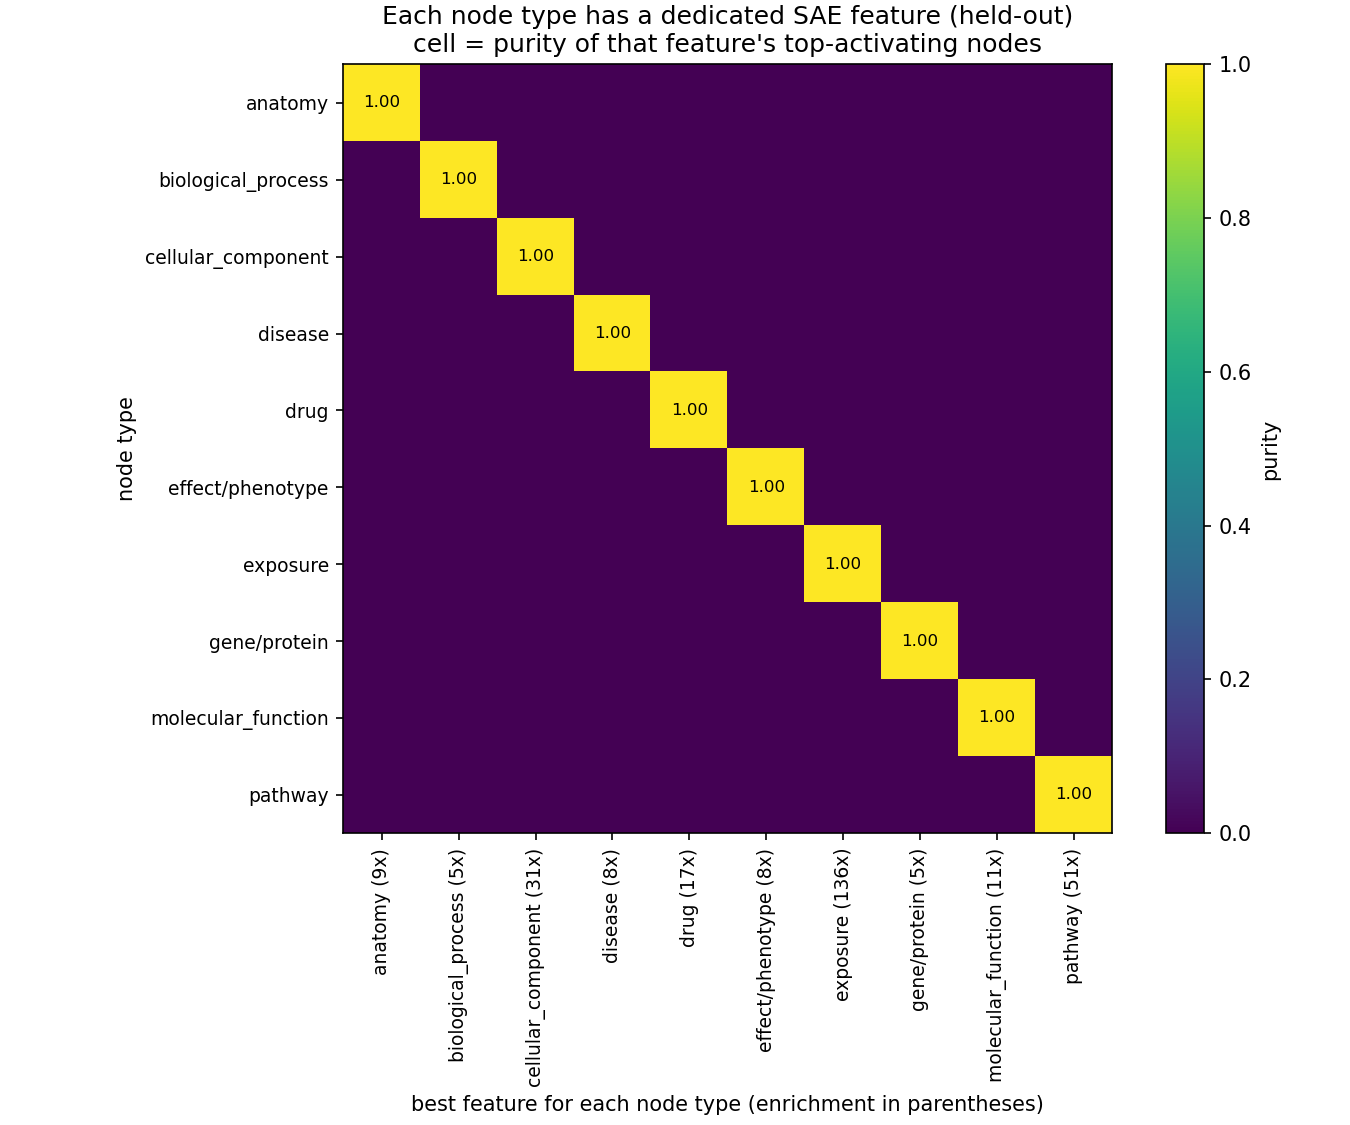
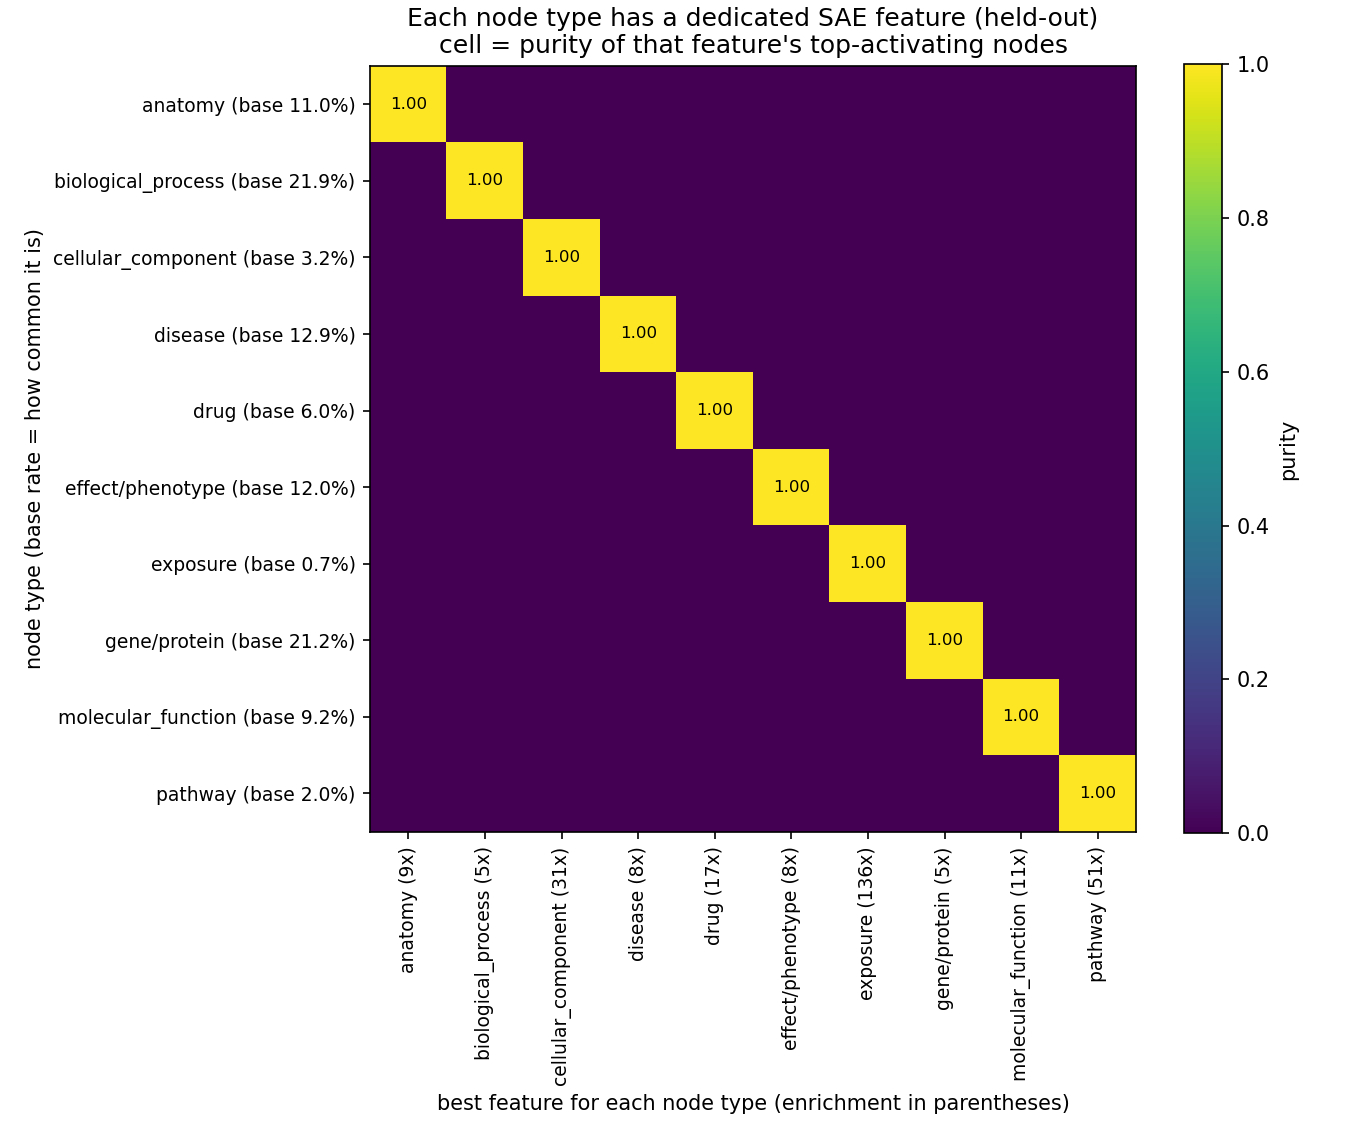
Improve figures per review: base rates (fig2), precision+recall (fig3), base rate in fig1 labels

diff --git a/README.md b/README.md
@@ -48,8 +48,14 @@ is visible qualitatively and is the natural next validation step (using ontology
 - `fig1_top_nodes.png` — representative features with their top-activating nodes named
   (reveals the finer drug-class / disease-group structure).
 - `fig2_best_feature_per_type.png` — best feature per node type; the **bright diagonal** shows
-  each type has its own dedicated detector, with enrichment in the axis labels.
-- `fig3_interpretability_summary.png` — interpretability tiers + enrichment per node type.
+  each type has its own dedicated detector. Each row also carries the type's **base rate**, which
+  makes the perfect (1.0) purity meaningful: 1.0 for gene/protein (21% of nodes) is only ~5x
+  enrichment, whereas 1.0 for exposure (0.7%) is ~136x.
+- `fig3_interpretability_summary.png` — **precision and recall shown directly** (enrichment alone
+  makes rare types look "best"). Left: every feature has near-perfect precision but low recall
+  (each type is split across many features). Right: the cleanest detector per type — precision is
+  ~1.0 for all types, while single-feature recall scales inversely with base rate (one feature
+  catches ~78% of all pathway nodes but ~0% of the much larger gene/protein set).
 - `fig4_discovered_niches.png` — **a catalog of distinct clinical sub-classes the SAE found
   *within* the drug and disease types.** Each card is one feature + example members — drug
   classes (antipsychotics, HIV antiretrovirals, the multiple-myeloma regimen, ...) and disease
